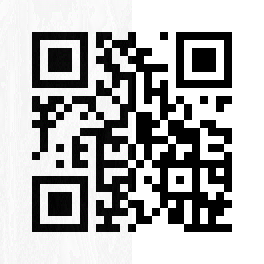
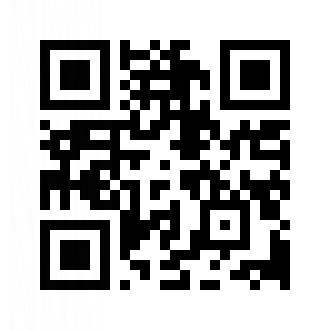
Better image hiding with ocr

diff --git a/reconstruct.py b/reconstruct.py
@@ -1,19 +1,19 @@
 from PIL import Image
 
 #SOME GLOBAL VARIABLES
-WIDTH = 264
-HEIGHT = 264
+WIDTH = 330
+HEIGHT = 330
 
 #main function
 def main():
     merged_img = Image.open("merged_img.png")
     decoded_img = decode(merged_img)
-    decoded_img.save("decoded.png")
+    decoded_img.save("new_decoded.png")
 
 
 #extracting the hidden image from the merged image
 def decode(merged_img):
-    pixel_count = 132*132
+    pixel_count = 165*56
     loaded_merged_img = merged_img.load()
     hidden_bin = extract_hidden(loaded_merged_img,pixel_count)
     hidden_img = createImageFromBinary(hidden_bin)
@@ -30,9 +30,9 @@ def extract_hidden(merged_img,pixel_count):
             pixel = merged_img[row,col]
             r,g,b = pixel
             r_bin, g_bin, b_bin = format_binary(r,g,b)
-            hidden_bin+= r_bin[4:8] + g_bin[4:8] + b_bin[4:8]
+            hidden_bin+= r_bin[6:8] + g_bin[6:8] + b_bin[6:8]
             ind+=1
-            if ind >= pixel_count * 2:
+            if ind >= pixel_count * 4:
                 return hidden_bin
         
     return hidden_bin
@@ -43,13 +43,13 @@ def format_binary(r,g,b):
 
 #creating the hidden image back from it's binary
 def createImageFromBinary(hidden_bin):
-    hidden_img = Image.new("RGB",(WIDTH//2,HEIGHT//2))
+    hidden_img = Image.new("RGB",(WIDTH//2,56))
     loaded_hidden_img = hidden_img.load()
 
     ind = 0
 
     for row in range(WIDTH//2):
-        for col in range(HEIGHT//2):
+        for col in range(56):
             r_bin = hidden_bin[ind:ind+8]
             g_bin = hidden_bin[ind+8:ind+16]
             b_bin = hidden_bin[ind+16:ind+24]

diff --git a/steganography.py b/steganography.py
@@ -1,12 +1,12 @@
 from PIL import Image
 
-WIDTH = 264
-HEIGHT = 264
+WIDTH = 330
+HEIGHT = 330
 
 
 def main():
     cover_img = Image.open("qrcode.png").convert("RGB");
-    hidden_img = Image.open("hidden.png")
+    hidden_img = Image.open("hiddenmini.png").convert("RGB");
     merged_img = encode(cover_img,hidden_img)
     merged_img.save("merged_img.png")
 
@@ -25,7 +25,7 @@ def convertToBinary(hidden):
     img_pixels = ""
 
     for row in range(WIDTH//2):
-        for col in range(HEIGHT//2):
+        for col in range(56):
             pixel = hidden[row,col]
             r,g,b = pixel
             r_bin, g_bin, b_bin = format_binary(r,g,b)
@@ -46,10 +46,10 @@ def mergeHiddenWithCover(cover,hidden_bin):
             pixel = cover[row,col]
             r,g,b = pixel
             r_bin,g_bin,b_bin = format_binary(r,g,b)
-            r_bin = r_bin[0:4] + hidden_bin[ind:ind+4]
-            g_bin = g_bin[0:4] + hidden_bin[ind+4:ind+8]
-            b_bin = b_bin[0:4] + hidden_bin[ind+8:ind+12]
-            ind+=12
+            r_bin = r_bin[0:6] + hidden_bin[ind:ind+2]
+            g_bin = g_bin[0:6] + hidden_bin[ind+2:ind+4]
+            b_bin = b_bin[0:6] + hidden_bin[ind+4:ind+6]
+            ind+=6
             cover[row,col] = (int(r_bin,2),int(g_bin,2),int(b_bin,2))
 
             if ind >= len(hidden_bin):

diff --git a/text.py b/text.py
@@ -1,5 +1,5 @@
 from PIL import Image
 import pytesseract
 
-text = pytesseract.image_to_string(Image.open("decoded.png"))
+text = pytesseract.image_to_string(Image.open("new_decoded.png"))
 print(text)

diff --git a/generate_qr.py b/generate_qr.py
@@ -1,6 +1,6 @@
-import segno
+import qrcode
 
 #generating a qr code
 msg = input()
-qrcode = segno.make_qr(msg)
-qrcode.save("qrcode.png",scale=8)
+qr = qrcode.make(msg)
+qr.save("qrcode.png")
